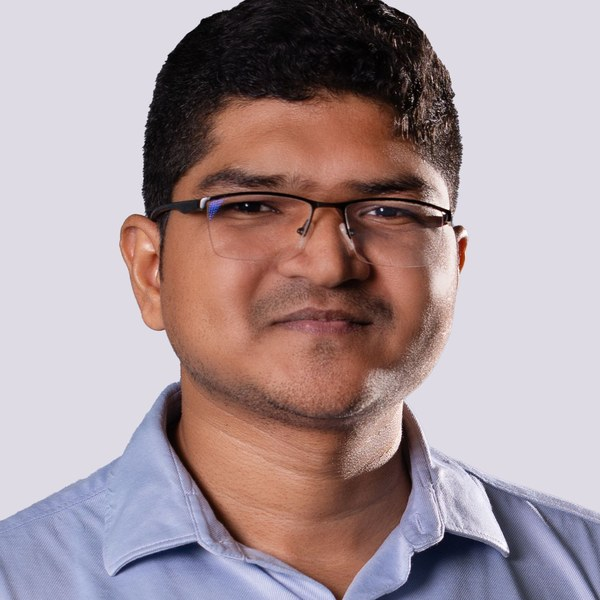
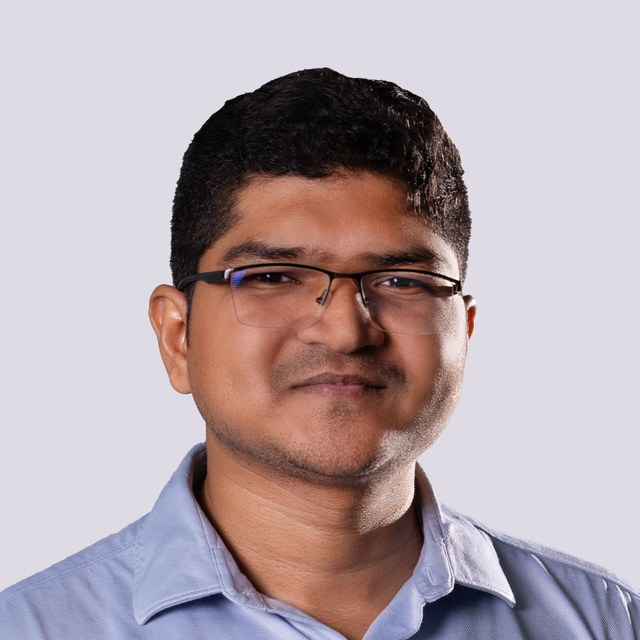
Add files via upload

diff --git a/index.html b/index.html
@@ -34,7 +34,9 @@
     <h2>Shaik Basheeruddin Shah, Ph.D.</h2>
     <p class="role">Postdoctoral Fellow<br>Department of Electrical Engineering<br><a href="https://www.ku.ac.ae/academics/college-of-engineering/department/department-of-electrical-engineering-and-computer-science">Khalifa University</a>, Abu Dhabi, UAE</p>
     <ul class="links">
+      <li>&#9993; <a href="mailto:shaik.shah@ku.ac.ae">shaik.shah@ku.ac.ae</a></li>
       <li>&#9993; <a href="mailto:basheershah09@gmail.com">basheershah09@gmail.com</a></li>
+      <li>&#9742; <a href="tel:+971508936290">+971 50 893 6290</a></li>
       <li><a href="https://scholar.google.com/citations?user=rE05Hq4AAAAJ&amp;hl=en">Google Scholar</a></li>
       <li><a href="https://orcid.org/0000-0003-0743-8315">ORCID</a></li>
       <!-- To add LinkedIn: put your URL in place of YOUR-LINKEDIN-URL and delete the two comment marks around this line
@@ -69,19 +71,19 @@
     <div class="news-month">
       <h3>October 2026</h3>
       <ul>
-        <li>Journal paper published in <i>IEEE Access</i>: <span class="me">S. B. Shah</span>, N. T. Ali, D. Ninković, A. Altunaiji, M. Alhajri, and D. Olćan, "<a href="https://doi.org/10.1109/ACCESS.2026.3741588">Comparative assessment of ℓ<sub>1</sub> and ℓ<sub>2</sub> minimization algorithms for period and hidden period estimation</a>," <i>IEEE Access</i>, 2026.</li>
+        <li>Our paper was published in <i>IEEE Access</i>: <span class="me">S. B. Shah</span>, N. T. Ali, D. Ninković, A. Altunaiji, M. Alhajri, and D. Olćan, "<a href="https://doi.org/10.1109/ACCESS.2026.3741588">Comparative assessment of ℓ<sub>1</sub> and ℓ<sub>2</sub> minimization algorithms for period and hidden period estimation</a>," <i>IEEE Access</i>, 2026.</li>
       </ul>
     </div>
     <div class="news-month">
       <h3>September 2026</h3>
       <ul>
-        <li>Journal paper published in <i>IEEE Access</i>: D. Ninković, <span class="me">S. B. Shah</span>, A. Altunaiji, N. T. Ali, and D. Olćan, "<a href="https://doi.org/10.1109/ACCESS.2026.3738017">Machine learning models for gain regression trained on 10 million Yagi–Uda antennas</a>," <i>IEEE Access</i>, 2026.</li>
+        <li>Congratulations to Darko Ninković! Our paper was published in <i>IEEE Access</i>: D. Ninković, <span class="me">S. B. Shah</span>, A. Altunaiji, N. T. Ali, and D. Olćan, "<a href="https://doi.org/10.1109/ACCESS.2026.3738017">Machine learning models for gain regression trained on 10 million Yagi–Uda antennas</a>," <i>IEEE Access</i>, 2026.</li>
       </ul>
     </div>
     <div class="news-month">
       <h3>July 2026</h3>
       <ul>
-        <li>Journal paper published in the <i>IEEE Open Journal of the Communications Society</i>: <span class="me">S. B. Shah</span>, N. T. Ali, A. Altunaiji, and D. Olćan, "<a href="https://doi.org/10.1109/OJCOMS.2026.3717049">Modulo-NPDM: A modulo-based multicarrier modulation framework for PAPR reduction</a>," <i>IEEE Open Journal of the Communications Society</i>, 2026.</li>
+        <li>Our paper was published in the <i>IEEE Open Journal of the Communications Society</i>: <span class="me">S. B. Shah</span>, N. T. Ali, A. Altunaiji, and D. Olćan, "<a href="https://doi.org/10.1109/OJCOMS.2026.3717049">Modulo-NPDM: A modulo-based multicarrier modulation framework for PAPR reduction</a>," <i>IEEE Open Journal of the Communications Society</i>, 2026.</li>
       </ul>
     </div>
     <div class="news-month">
@@ -93,63 +95,63 @@
     <div class="news-month">
       <h3>April 2026</h3>
       <ul>
-        <li>Paper presented at IEEE ICCEM 2026: D. Ninković, <span class="me">S. B. Shah</span>, A. Altunaiji, N. T. Ali, and D. Olćan, "<a href="https://doi.org/10.1109/ICCEM68495.2026.11628954">Mixture of experts and ensembles of deep neural networks for antenna modeling</a>," in <i>Proc. IEEE ICCEM</i>, 2026.</li>
+        <li>Congratulations to Darko Ninković! Our paper was accepted at IEEE ICCEM 2026: D. Ninković, <span class="me">S. B. Shah</span>, A. Altunaiji, N. T. Ali, and D. Olćan, "<a href="https://doi.org/10.1109/ICCEM68495.2026.11628954">Mixture of experts and ensembles of deep neural networks for antenna modeling</a>," in <i>Proc. IEEE ICCEM</i>, 2026.</li>
       </ul>
     </div>
     <div class="news-month">
       <h3>March 2026</h3>
       <ul>
-        <li>Journal paper published in <i>Scientific Reports</i>: W. Abuouelezz, N. T. Ali, Z. Aung, A. Altunaiji, <span class="me">S. B. Shah</span>, and M. Alkatheeri, "<a href="https://doi.org/10.1038/s41598-026-44485-6">Multi-model forecasting of NO<sub>2</sub> and O<sub>3</sub> in Abu Dhabi: Benefits of correlation-based feature augmentation</a>," <i>Scientific Reports</i>, vol. 16, art. 13825, 2026.</li>
+        <li>Congratulations to W. Abuouelezz! Our paper was published in <i>Scientific Reports</i>: W. Abuouelezz, N. T. Ali, Z. Aung, A. Altunaiji, <span class="me">S. B. Shah</span>, and M. Alkatheeri, "<a href="https://doi.org/10.1038/s41598-026-44485-6">Multi-model forecasting of NO<sub>2</sub> and O<sub>3</sub> in Abu Dhabi: Benefits of correlation-based feature augmentation</a>," <i>Scientific Reports</i>, vol. 16, art. 13825, 2026.</li>
       </ul>
     </div>
     <div class="news-month">
       <h3>February 2026</h3>
       <ul>
-        <li>Journal paper published in the <i>IEEE Open Journal of Vehicular Technology</i>: G. Srikanth, <span class="me">S. B. Shah</span>, N. T. Ali, V. K. Chakka, J. Querol, A. Altunaiji, and D. Olćan, "<a href="https://doi.org/10.1109/OJVT.2026.3661153">RPDMA: A PAPR-aware multiple access scheme</a>," <i>IEEE Open Journal of Vehicular Technology</i>, vol. 7, pp. 800–816, 2026.</li>
-        <li>Journal paper published in the <i>IEEE Open Journal of the Communications Society</i>: A. Aldelemy, A. Al-Dulaimi, <span class="me">S. B. Shah</span>, N. T. Ali, W. A. Al-Hussaibi, and R. A. Abd-Alhameed, "<a href="https://doi.org/10.1109/OJCOMS.2026.3660202">Walsh-OFDM breakdown analysis breaking the SNR floor: An analytical study of Walsh-coded OFDM performance and breakdown mechanisms in low-SNR Rician fading</a>," <i>IEEE Open Journal of the Communications Society</i>, vol. 7, pp. 1302–1318, 2026.</li>
+        <li>Congratulations to Dr. Goli Srikanth! Our paper was published in the <i>IEEE Open Journal of Vehicular Technology</i>: G. Srikanth, <span class="me">S. B. Shah</span>, N. T. Ali, V. K. Chakka, J. Querol, A. Altunaiji, and D. Olćan, "<a href="https://doi.org/10.1109/OJVT.2026.3661153">RPDMA: A PAPR-aware multiple access scheme</a>," <i>IEEE Open Journal of Vehicular Technology</i>, vol. 7, pp. 800–816, 2026.</li>
+        <li>Congratulations to Ahmad Aldelemy! Our paper was published in the <i>IEEE Open Journal of the Communications Society</i>: A. Aldelemy, A. Al-Dulaimi, <span class="me">S. B. Shah</span>, N. T. Ali, W. A. Al-Hussaibi, and R. A. Abd-Alhameed, "<a href="https://doi.org/10.1109/OJCOMS.2026.3660202">Walsh-OFDM breakdown analysis breaking the SNR floor: An analytical study of Walsh-coded OFDM performance and breakdown mechanisms in low-SNR Rician fading</a>," <i>IEEE Open Journal of the Communications Society</i>, vol. 7, pp. 1302–1318, 2026.</li>
       </ul>
     </div>
     <div class="news-month">
       <h3>October 2025</h3>
       <ul>
-        <li>New preprint on arXiv: Y. Kvich, R. Arie, H. Hasan, <span class="me">S. B. Shah</span>, and Y. C. Eldar, "<a href="https://arxiv.org/abs/2510.18729">mSQUID: Model-based learned modulo recovery at low sampling rates</a>," arXiv:2510.18729, 2025.</li>
+        <li>Congratulations to Yhonatan Kvich! Our new preprint is on arXiv: Y. Kvich, R. Arie, H. Hasan, <span class="me">S. B. Shah</span>, and Y. C. Eldar, "<a href="https://arxiv.org/abs/2510.18729">mSQUID: Model-based learned modulo recovery at low sampling rates</a>," arXiv:2510.18729, 2025.</li>
       </ul>
     </div>
     <div class="news-month">
       <h3>August 2025</h3>
       <ul>
-        <li>Journal paper published in <i>IEEE Transactions on Signal Processing</i>: N. I. Bernardo, <span class="me">S. B. Shah</span>, and Y. C. Eldar, "<a href="https://doi.org/10.1109/TSP.2025.3598420">Modulo sampling: Performance guarantees in the presence of quantization</a>," <i>IEEE Transactions on Signal Processing</i>, vol. 73, pp. 3829–3842, 2025.</li>
+        <li>Congratulations to Neil Irwin Bernardo! Our paper was published in <i>IEEE Transactions on Signal Processing</i>: N. I. Bernardo, <span class="me">S. B. Shah</span>, and Y. C. Eldar, "<a href="https://doi.org/10.1109/TSP.2025.3598420">Modulo sampling: Performance guarantees in the presence of quantization</a>," <i>IEEE Transactions on Signal Processing</i>, vol. 73, pp. 3829–3842, 2025.</li>
       </ul>
     </div>
     <div class="news-month">
       <h3>June 2025</h3>
       <ul>
-        <li>Journal paper published in the <i>IEEE Open Journal of the Communications Society</i>: <span class="me">S. B. Shah</span>, N. T. Ali, G. Srikanth, A. Altunaiji, and D. Olćan, "<a href="https://doi.org/10.1109/OJCOMS.2025.3579725">PAPR performance evaluation of OFDM, RPDM, and ORPDM multicarrier modulation schemes</a>," <i>IEEE Open Journal of the Communications Society</i>, vol. 6, pp. 5297–5318, 2025.</li>
+        <li>Our paper was published in the <i>IEEE Open Journal of the Communications Society</i>: <span class="me">S. B. Shah</span>, N. T. Ali, G. Srikanth, A. Altunaiji, and D. Olćan, "<a href="https://doi.org/10.1109/OJCOMS.2025.3579725">PAPR performance evaluation of OFDM, RPDM, and ORPDM multicarrier modulation schemes</a>," <i>IEEE Open Journal of the Communications Society</i>, vol. 6, pp. 5297–5318, 2025.</li>
       </ul>
     </div>
     <div class="news-month">
       <h3>May 2025</h3>
       <ul>
-        <li>Letter published in <i>IEEE Antennas and Wireless Propagation Letters</i>: D. Ninković, <span class="me">S. B. Shah</span>, A. Altunaiji, N. T. Ali, and D. Olćan, "<a href="https://doi.org/10.1109/LAWP.2025.3574176">Comparison of ensembles of deep neural networks and mixture of experts for antenna modeling</a>," <i>IEEE Antennas and Wireless Propagation Letters</i>, vol. 24, no. 11, pp. 3941–3945, 2025.</li>
+        <li>Congratulations to Darko Ninković! Our letter was published in <i>IEEE Antennas and Wireless Propagation Letters</i>: D. Ninković, <span class="me">S. B. Shah</span>, A. Altunaiji, N. T. Ali, and D. Olćan, "<a href="https://doi.org/10.1109/LAWP.2025.3574176">Comparison of ensembles of deep neural networks and mixture of experts for antenna modeling</a>," <i>IEEE Antennas and Wireless Propagation Letters</i>, vol. 24, no. 11, pp. 3941–3945, 2025.</li>
       </ul>
     </div>
     <div class="news-month">
       <h3>April 2025</h3>
       <ul>
         <li>Presented our paper at IEEE ICASSP 2025, Hyderabad, India: <span class="me">S. B. Shah</span>, N. T. Ali, A. Altunaiji, V. K. Chakka, and M. Alhajri, "<a href="https://doi.org/10.1109/ICASSP49660.2025.10890254">Complex coprime frequency sum based signal representation for period estimation</a>," in <i>Proc. IEEE ICASSP</i>, Hyderabad, India, 2025.</li>
-        <li>Also presented at ICASSP 2025: V. Kotha, V. K. Chakka, <span class="me">S. B. Shah</span>, and N. T. Ali, "<a href="https://doi.org/10.1109/ICASSP49660.2025.10889739">Node selection for physical layer security using graph-based vertex-frequency representation</a>," in <i>Proc. IEEE ICASSP</i>, Hyderabad, India, 2025.</li>
+        <li>Congratulations to Venugopalachary Kotha! Our paper was accepted at IEEE ICASSP 2025: V. Kotha, V. K. Chakka, <span class="me">S. B. Shah</span>, and N. T. Ali, "<a href="https://doi.org/10.1109/ICASSP49660.2025.10889739">Node selection for physical layer security using graph-based vertex-frequency representation</a>," in <i>Proc. IEEE ICASSP</i>, Hyderabad, India, 2025.</li>
       </ul>
     </div>
     <div class="news-month">
       <h3>March 2025</h3>
       <ul>
-        <li>Journal paper published in <i>Scientific Reports</i>: W. Abuouelezz, N. T. Ali, Z. Aung, A. Altunaiji, <span class="me">S. B. Shah</span>, and D. Gliddon, "<a href="https://doi.org/10.1038/s41598-025-94013-1">Exploring PM2.5 and PM10 ML forecasting models: A comparative study in the UAE</a>," <i>Scientific Reports</i>, vol. 15, art. 9797, 2025.</li>
+        <li>Congratulations to W. Abuouelezz! Our paper was published in <i>Scientific Reports</i>: W. Abuouelezz, N. T. Ali, Z. Aung, A. Altunaiji, <span class="me">S. B. Shah</span>, and D. Gliddon, "<a href="https://doi.org/10.1038/s41598-025-94013-1">Exploring PM2.5 and PM10 ML forecasting models: A comparative study in the UAE</a>," <i>Scientific Reports</i>, vol. 15, art. 9797, 2025.</li>
       </ul>
     </div>
     <div class="news-month">
       <h3>February 2025</h3>
       <ul>
-        <li>Paper presented at ICE 2025, Greater Noida, India: S. Sural, <span class="me">S. B. Shah</span>, N. T. Ali, and V. K. Chakka, "<a href="https://doi.org/10.1109/ICE63309.2025.10984020">Different DNA encoding schemes for filter bank based tandem repeat detection</a>," in <i>Proc. ICE</i>, Greater Noida, India, 2025.</li>
+        <li>Congratulations to S. Sural! Our paper was accepted at ICE 2025, Greater Noida, India: S. Sural, <span class="me">S. B. Shah</span>, N. T. Ali, and V. K. Chakka, "<a href="https://doi.org/10.1109/ICE63309.2025.10984020">Different DNA encoding schemes for filter bank based tandem repeat detection</a>," in <i>Proc. ICE</i>, Greater Noida, India, 2025.</li>
       </ul>
     </div>
   </main>

diff --git a/assets/css/style.css b/assets/css/style.css
@@ -78,7 +78,7 @@ nav a.active { background: var(--accent); color: #fff; }
   margin: 0 auto;
   padding: 40px 24px 64px;
   display: grid;
-  grid-template-columns: 260px 1fr;
+  grid-template-columns: 270px 1fr;
   gap: 48px;
   align-items: start;
 }
@@ -88,8 +88,8 @@ nav a.active { background: var(--accent); color: #fff; }
   text-align: left;
 }
 .profile img {
-  width: 180px;
-  height: 180px;
+  width: 230px;
+  height: 230px;
   object-fit: cover;
   border-radius: 50%;
   border: 4px solid #fff;
@@ -208,7 +208,7 @@ footer {
 @media (max-width: 820px) {
   .wrap { grid-template-columns: 1fr; gap: 28px; padding-top: 28px; }
   .profile { position: static; text-align: center; }
-  .profile img { margin: 0 auto 14px; width: 140px; height: 140px; }
+  .profile img { margin: 0 auto 14px; width: 180px; height: 180px; }
   main h1 { font-size: 1.6rem; }
   .topbar { position: static; }
   .topbar-inner { justify-content: center; }

diff --git a/publications.html b/publications.html
@@ -34,7 +34,9 @@
     <h2>Shaik Basheeruddin Shah, Ph.D.</h2>
     <p class="role">Postdoctoral Fellow<br>Department of Electrical Engineering<br><a href="https://www.ku.ac.ae/academics/college-of-engineering/department/department-of-electrical-engineering-and-computer-science">Khalifa University</a>, Abu Dhabi, UAE</p>
     <ul class="links">
+      <li>&#9993; <a href="mailto:shaik.shah@ku.ac.ae">shaik.shah@ku.ac.ae</a></li>
       <li>&#9993; <a href="mailto:basheershah09@gmail.com">basheershah09@gmail.com</a></li>
+      <li>&#9742; <a href="tel:+971508936290">+971 50 893 6290</a></li>
       <li><a href="https://scholar.google.com/citations?user=rE05Hq4AAAAJ&amp;hl=en">Google Scholar</a></li>
       <li><a href="https://orcid.org/0000-0003-0743-8315">ORCID</a></li>
       <!-- To add LinkedIn: put your URL in place of YOUR-LINKEDIN-URL and delete the two comment marks around this line

diff --git a/research.html b/research.html
@@ -34,7 +34,9 @@
     <h2>Shaik Basheeruddin Shah, Ph.D.</h2>
     <p class="role">Postdoctoral Fellow<br>Department of Electrical Engineering<br><a href="https://www.ku.ac.ae/academics/college-of-engineering/department/department-of-electrical-engineering-and-computer-science">Khalifa University</a>, Abu Dhabi, UAE</p>
     <ul class="links">
+      <li>&#9993; <a href="mailto:shaik.shah@ku.ac.ae">shaik.shah@ku.ac.ae</a></li>
       <li>&#9993; <a href="mailto:basheershah09@gmail.com">basheershah09@gmail.com</a></li>
+      <li>&#9742; <a href="tel:+971508936290">+971 50 893 6290</a></li>
       <li><a href="https://scholar.google.com/citations?user=rE05Hq4AAAAJ&amp;hl=en">Google Scholar</a></li>
       <li><a href="https://orcid.org/0000-0003-0743-8315">ORCID</a></li>
       <!-- To add LinkedIn: put your URL in place of YOUR-LINKEDIN-URL and delete the two comment marks around this line

diff --git a/teaching.html b/teaching.html
@@ -34,7 +34,9 @@
     <h2>Shaik Basheeruddin Shah, Ph.D.</h2>
     <p class="role">Postdoctoral Fellow<br>Department of Electrical Engineering<br><a href="https://www.ku.ac.ae/academics/college-of-engineering/department/department-of-electrical-engineering-and-computer-science">Khalifa University</a>, Abu Dhabi, UAE</p>
     <ul class="links">
+      <li>&#9993; <a href="mailto:shaik.shah@ku.ac.ae">shaik.shah@ku.ac.ae</a></li>
       <li>&#9993; <a href="mailto:basheershah09@gmail.com">basheershah09@gmail.com</a></li>
+      <li>&#9742; <a href="tel:+971508936290">+971 50 893 6290</a></li>
       <li><a href="https://scholar.google.com/citations?user=rE05Hq4AAAAJ&amp;hl=en">Google Scholar</a></li>
       <li><a href="https://orcid.org/0000-0003-0743-8315">ORCID</a></li>
       <!-- To add LinkedIn: put your URL in place of YOUR-LINKEDIN-URL and delete the two comment marks around this line
